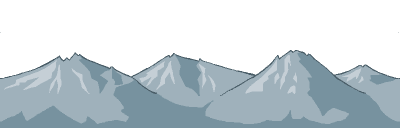
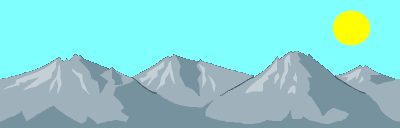
Cambio del background y el caption

diff --git a/dub/main.py b/dub/main.py
@@ -32,7 +32,7 @@ IMAGES = os.path.abspath(".") + "\imagenes"
  
 def main():
     screen = pygame.display.set_mode((WIDTH, HEIGHT))
-    pygame.display.set_caption("Pruebas Pygame")
+    pygame.display.set_caption("Dub game")
     
     background = images.load_image(IMAGES + "\mountains.png")
     valdemar = objetos.Player("Valdemar")
